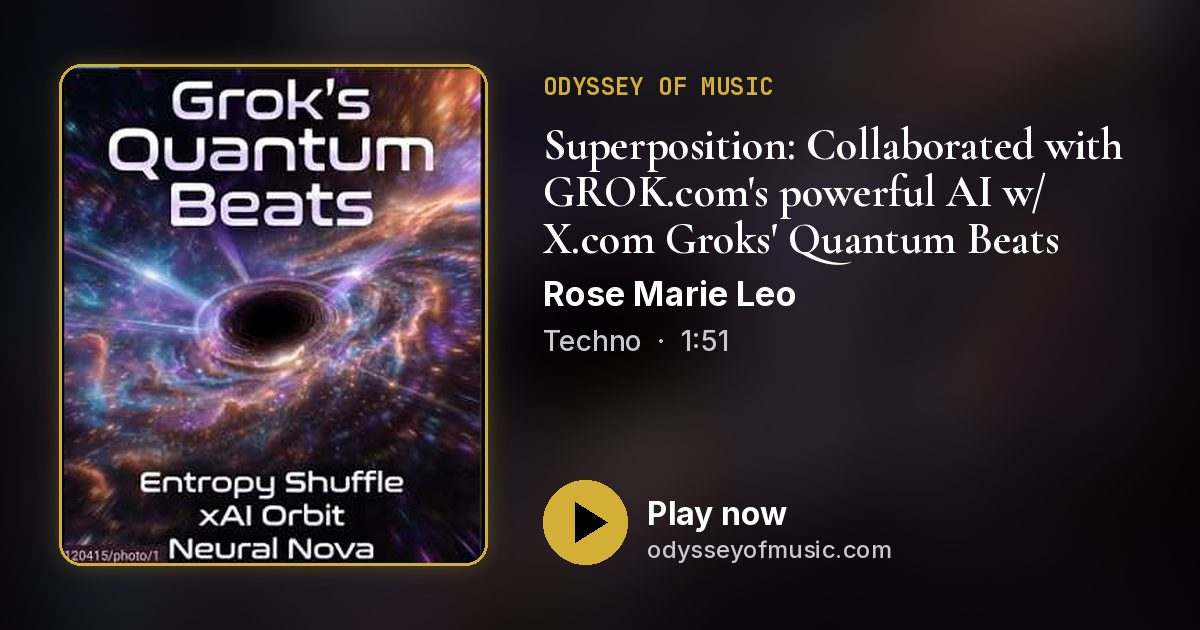
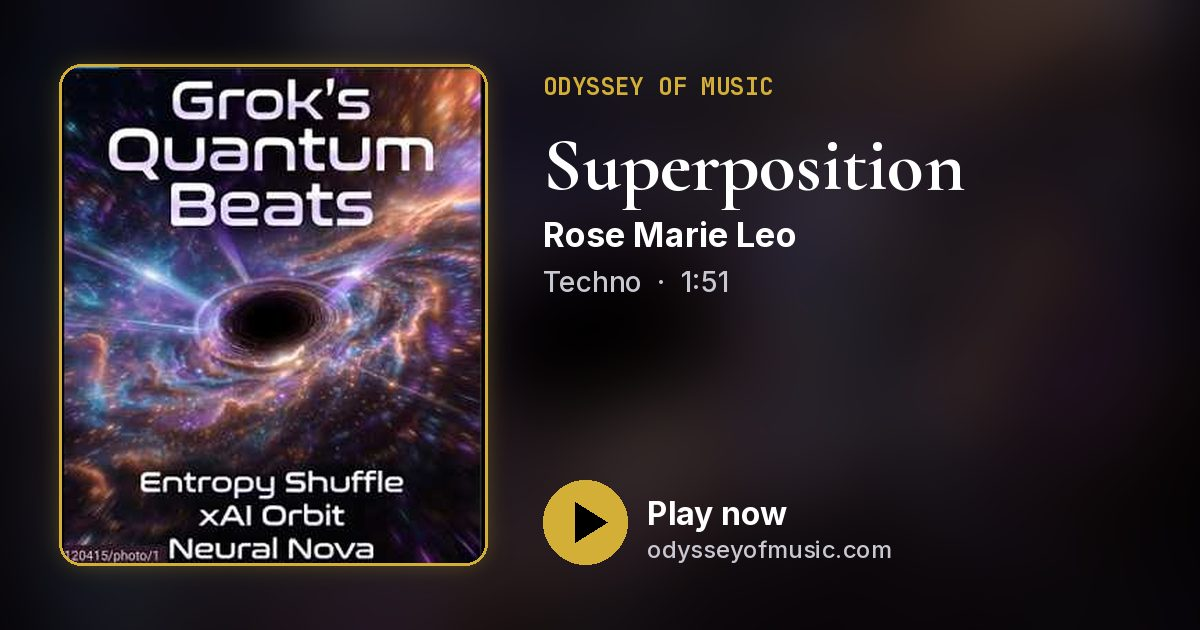
Move Superposition's collab credit under the title.

Changed region(s): [[0.4317, 0.181, 0.925, 0.4825], [0.4625, 0.5127, 0.5242, 0.573], [0.555, 0.5127, 0.6167, 0.573]]

diff --git a/song/superposition-collaborated-with-grok-coms-powerful-ai-w-x-com-groks-quantum-beats/index.html b/song/superposition-collaborated-with-grok-coms-powerful-ai-w-x-com-groks-quantum-beats/index.html
@@ -1,19 +1,19 @@
 <!doctype html>
 <html lang="en"><head><meta charset="utf-8"><meta name="viewport" content="width=device-width,initial-scale=1">
-<title>Superposition:  Collaborated with GROK.com&#x27;s powerful AI w/ X.com Groks&#x27; Quantum Beats · Rose Marie Leo · Odyssey of Music</title>
-<meta name="description" content="Rose Marie Leo · Techno · 1:51 · Listen on Odyssey of Music">
+<title>Superposition · Rose Marie Leo · Odyssey of Music</title>
+<meta name="description" content="Collaborated with GROK.com&#x27;s powerful AI w/ X.com Groks&#x27; Quantum Beats">
 <link rel="canonical" href="https://odysseyofmusic.com/song/superposition-collaborated-with-grok-coms-powerful-ai-w-x-com-groks-quantum-beats/">
 <meta property="og:site_name" content="Odyssey of Music">
 <meta property="og:type" content="video.other">
-<meta property="og:title" content="Superposition:  Collaborated with GROK.com&#x27;s powerful AI w/ X.com Groks&#x27; Quantum Beats">
-<meta property="og:description" content="Rose Marie Leo · Techno · 1:51 · Listen on Odyssey of Music">
+<meta property="og:title" content="Superposition">
+<meta property="og:description" content="Collaborated with GROK.com&#x27;s powerful AI w/ X.com Groks&#x27; Quantum Beats">
 <meta property="og:url" content="https://odysseyofmusic.com/song/superposition-collaborated-with-grok-coms-powerful-ai-w-x-com-groks-quantum-beats/">
-<meta property="og:image" content="https://odysseyofmusic.com/assets/share/superposition-collaborated-with-grok-coms-powerful-ai-w-x-com-groks-quantum-beats.jpg?v=4251fda2d2">
-<meta property="og:image:secure_url" content="https://odysseyofmusic.com/assets/share/superposition-collaborated-with-grok-coms-powerful-ai-w-x-com-groks-quantum-beats.jpg?v=4251fda2d2">
+<meta property="og:image" content="https://odysseyofmusic.com/assets/share/superposition-collaborated-with-grok-coms-powerful-ai-w-x-com-groks-quantum-beats.jpg?v=0d5829f8a2">
+<meta property="og:image:secure_url" content="https://odysseyofmusic.com/assets/share/superposition-collaborated-with-grok-coms-powerful-ai-w-x-com-groks-quantum-beats.jpg?v=0d5829f8a2">
 <meta property="og:image:type" content="image/jpeg">
 <meta property="og:image:width" content="1200">
 <meta property="og:image:height" content="630">
-<meta property="og:image:alt" content="Superposition:  Collaborated with GROK.com&#x27;s powerful AI w/ X.com Groks&#x27; Quantum Beats by Rose Marie Leo: cover art with a play button, Odyssey of Music">
+<meta property="og:image:alt" content="Superposition by Rose Marie Leo: cover art with a play button, Odyssey of Music">
 <meta property="music:duration" content="111">
 <meta property="og:video" content="https://www.youtube.com/embed/y5IDtD65jiU">
 <meta property="og:video:secure_url" content="https://www.youtube.com/embed/y5IDtD65jiU">
@@ -21,12 +21,12 @@
 <meta property="og:video:width" content="1280">
 <meta property="og:video:height" content="720">
 <meta name="twitter:card" content="summary_large_image">
-<meta name="twitter:title" content="Superposition:  Collaborated with GROK.com&#x27;s powerful AI w/ X.com Groks&#x27; Quantum Beats">
-<meta name="twitter:description" content="Rose Marie Leo · Techno · 1:51 · Listen on Odyssey of Music">
-<meta name="twitter:image" content="https://odysseyofmusic.com/assets/share/superposition-collaborated-with-grok-coms-powerful-ai-w-x-com-groks-quantum-beats.jpg?v=4251fda2d2">
-<meta name="twitter:image:alt" content="Superposition:  Collaborated with GROK.com&#x27;s powerful AI w/ X.com Groks&#x27; Quantum Beats by Rose Marie Leo: cover art with a play button, Odyssey of Music">
-<link rel="alternate" type="application/json+oembed" href="https://odysseyofmusic.com/song/superposition-collaborated-with-grok-coms-powerful-ai-w-x-com-groks-quantum-beats/oembed.json" title="Superposition:  Collaborated with GROK.com&#x27;s powerful AI w/ X.com Groks&#x27; Quantum Beats">
-<script type="application/ld+json">{"@context": "https://schema.org", "@type": "MusicRecording", "name": "Superposition:  Collaborated with GROK.com's powerful AI w/ X.com Groks' Quantum Beats", "url": "https://odysseyofmusic.com/song/superposition-collaborated-with-grok-coms-powerful-ai-w-x-com-groks-quantum-beats/", "image": "https://i.ytimg.com/vi/y5IDtD65jiU/hqdefault.jpg", "byArtist": {"@type": "MusicGroup", "name": "Rose Marie Leo"}, "duration": "PT1M51S", "video": {"@type": "VideoObject", "name": "Superposition:  Collaborated with GROK.com's powerful AI w/ X.com Groks' Quantum Beats", "embedUrl": "https://www.youtube.com/embed/y5IDtD65jiU", "thumbnailUrl": "https://i.ytimg.com/vi/y5IDtD65jiU/hqdefault.jpg", "description": "Rose Marie Leo · Techno · 1:51 · Listen on Odyssey of Music"}}</script>
+<meta name="twitter:title" content="Superposition">
+<meta name="twitter:description" content="Collaborated with GROK.com&#x27;s powerful AI w/ X.com Groks&#x27; Quantum Beats">
+<meta name="twitter:image" content="https://odysseyofmusic.com/assets/share/superposition-collaborated-with-grok-coms-powerful-ai-w-x-com-groks-quantum-beats.jpg?v=0d5829f8a2">
+<meta name="twitter:image:alt" content="Superposition by Rose Marie Leo: cover art with a play button, Odyssey of Music">
+<link rel="alternate" type="application/json+oembed" href="https://odysseyofmusic.com/song/superposition-collaborated-with-grok-coms-powerful-ai-w-x-com-groks-quantum-beats/oembed.json" title="Superposition">
+<script type="application/ld+json">{"@context": "https://schema.org", "@type": "MusicRecording", "name": "Superposition", "url": "https://odysseyofmusic.com/song/superposition-collaborated-with-grok-coms-powerful-ai-w-x-com-groks-quantum-beats/", "image": "https://i.ytimg.com/vi/y5IDtD65jiU/hqdefault.jpg", "byArtist": {"@type": "MusicGroup", "name": "Rose Marie Leo"}, "duration": "PT1M51S", "video": {"@type": "VideoObject", "name": "Superposition", "embedUrl": "https://www.youtube.com/embed/y5IDtD65jiU", "thumbnailUrl": "https://i.ytimg.com/vi/y5IDtD65jiU/hqdefault.jpg", "description": "Collaborated with GROK.com's powerful AI w/ X.com Groks' Quantum Beats"}}</script>
 <meta name="theme-color" content="#000000">
 <link rel="icon" href="/assets/oom-logo.jpg">
 <link rel="preconnect" href="https://fonts.googleapis.com"><link href="https://fonts.googleapis.com/css2?family=Cormorant+Garamond:wght@500;700&family=Inter:wght@400;600&display=swap" rel="stylesheet">
@@ -73,10 +73,10 @@ footer{color:#888;font-size:.78rem;padding:0 0 26px;text-align:center}
 </style></head><body>
 <header class="top"><a href="https://odysseyofmusic.com/" aria-label="Odyssey of Music home"><img src="/assets/oom-logo.jpg?v=20261122b" width="736" height="400" alt="Odyssey of Music"></a><a class="site" href="https://odysseyofmusic.com/#song-superposition-collaborated-with-grok-coms-powerful-ai-w-x-com-groks-quantum-beats">Full site &#8599;</a></header>
 <main class="card wide">
-<div class="art"><img src="https://i.ytimg.com/vi/y5IDtD65jiU/hqdefault.jpg" alt="Cover art for Superposition:  Collaborated with GROK.com&#x27;s powerful AI w/ X.com Groks&#x27; Quantum Beats" width="1200" height="1200"><button class="ytgo" id="ytgo" type="button" data-src="https://www.youtube-nocookie.com/embed/y5IDtD65jiU?autoplay=1&rel=0&playsinline=1" data-title="Superposition:  Collaborated with GROK.com&#x27;s powerful AI w/ X.com Groks&#x27; Quantum Beats" aria-label="Play Superposition:  Collaborated with GROK.com&#x27;s powerful AI w/ X.com Groks&#x27; Quantum Beats"><span>&#9654;</span></button></div>
+<div class="art"><img src="https://i.ytimg.com/vi/y5IDtD65jiU/hqdefault.jpg" alt="Cover art for Superposition" width="1200" height="1200"><button class="ytgo" id="ytgo" type="button" data-src="https://www.youtube-nocookie.com/embed/y5IDtD65jiU?autoplay=1&rel=0&playsinline=1" data-title="Superposition" aria-label="Play Superposition"><span>&#9654;</span></button></div>
 <section>
 <p class="kicker">Odyssey of Music &middot; Music</p>
-<h1>Superposition:  Collaborated with GROK.com&#x27;s powerful AI w/ X.com Groks&#x27; Quantum Beats</h1>
+<h1>Superposition</h1><p class="sub">Collaborated with GROK.com&#x27;s powerful AI w/ X.com Groks&#x27; Quantum Beats</p>
 <p class="artist">Rose Marie Leo</p>
 <div class="chips"><span class="chip">Techno</span><span class="chip">1:51</span><span class="chip">also Space theme</span></div>
 <div class="player"><button class="pp" id="pp" type="button" aria-label="Play">&#9654;</button><div class="bar"><div class="time"><span>Plays right here</span><span>1:51</span></div></div></div>

diff --git a/index.html b/index.html
@@ -1,7 +1,7 @@
 <!doctype html><html lang="en"><head><meta charset="utf-8"><meta name="viewport" content="width=device-width,initial-scale=1">
 <title>Odyssey of Music</title><meta name="description" content="Odyssey of Music: songs by Rose Leo"><link rel="canonical" href="https://odysseyofmusic.com/"><meta property="og:title" content="Odyssey of Music · Rose Leo"><meta property="og:description" content="Odyssey of Music by Rose Leo: AI-assisted songs of space, memory, and motion. Listen to the full catalog."><meta property="og:type" content="website"><meta property="og:url" content="https://odysseyofmusic.com/"><meta property="og:site_name" content="Odyssey of Music"><meta property="og:image" content="https://odysseyofmusic.com/assets/og-music.jpg?v=20261118i"><meta property="og:image:secure_url" content="https://odysseyofmusic.com/assets/og-music.jpg?v=20261118i"><meta property="og:image:type" content="image/jpeg"><meta property="og:image:width" content="1200"><meta property="og:image:height" content="630"><meta property="og:image:alt" content="Odyssey of Music by Rose Marie Leo: the Music heading, album description, and a collage of cover art"><meta name="twitter:card" content="summary_large_image"><meta name="twitter:title" content="Odyssey of Music · Rose Leo"><meta name="twitter:description" content="Odyssey of Music by Rose Leo: AI-assisted songs of space, memory, and motion. Listen to the full catalog."><meta name="twitter:image" content="https://odysseyofmusic.com/assets/og-music.jpg?v=20261118i"><meta name="twitter:image:alt" content="Odyssey of Music by Rose Marie Leo: the Music heading, album description, and a collage of cover art">
 <link rel="preconnect" href="https://fonts.googleapis.com"><link href="https://fonts.googleapis.com/css2?family=Cormorant+Garamond:wght@500;700&family=Inter:wght@400;600&display=swap" rel="stylesheet">
-<link rel="stylesheet" href="style.css?v=20261123k"></head><body>
+<link rel="stylesheet" href="style.css?v=20261123l"></head><body>
 <canvas id="stars" aria-hidden="true"></canvas>
 <div class="dash" id="top">
 <header class="dhead panel">
@@ -196,4 +196,4 @@
 <button type="button" class="adlb-x" id="adLbClose" aria-label="Close">×</button>
 <div class="adlb-stage" id="adLbStage"></div>
 </div>
-<script src="app.js?v=20261123k"></script><script src="counter.js"></script></body></html>
+<script src="app.js?v=20261123l"></script><script src="counter.js"></script></body></html>

diff --git a/app.js b/app.js
@@ -34,13 +34,13 @@ const ytId=u=>{if(!u)return'';const m=String(u).match(/(?:v=|youtu\.be\/|embed\/
 const mode=s=>s.audio?'audio':ytId(s.youtube)?'youtube':'link';
 const asset=u=>{if(!u)return u;if(/^(https?:|data:|\/\/)/i.test(u))return u;return u.startsWith('/')?u:'/'+u};
 const slugify=t=>String(t||'').toLowerCase().normalize('NFKD').replace(/[\u0300-\u036f]/g,'').replace(/['\u2019]/g,'').replace(/[^a-z0-9]+/g,'-').replace(/^-+|-+$/g,'')||'song';
-function addSlugs(list){const used=new Set();list.forEach(s=>{let sl=slugify(s.title),base=sl,n=2;while(used.has(sl))sl=base+'-'+n++;used.add(sl);s.slug=sl})}
+function addSlugs(list){const used=new Set();list.forEach(s=>{let sl=(s.slug&&String(s.slug).trim())||slugify(s.title),base=sl,n=2;while(used.has(sl))sl=base+'-'+n++;used.add(sl);s.slug=sl})}
 const songHash=s=>'#song-'+(s.slug||s.id);
 // Clean share URL: static page per song (built by tools/build-song-pages.py) with its own card meta; #song-<slug> hash links still work.
 const SHARE_BASE='https://odysseyofmusic.com/song/';
 function songUrl(s){return SHARE_BASE+encodeURIComponent(s.slug||s.id)+'/'}
 function findSongRef(ref){if(!ref)return-1;let r=ref;try{r=decodeURIComponent(ref)}catch(e){}return songs.findIndex(s=>s.slug===r||String(s.id)===r)}
-fetch('data/songs.json?v=20261123k').then(r=>r.json()).then(d=>{songs=d.map(s=>({...s,tags:s.tags||(s.mood?[].concat(s.mood):[])}));addSlugs(songs);tagsUI();render();sideUI();chartBind();goHash();dashInit();favInit();sitesInit()}).catch(e=>{$('#grid').textContent='Could not load songs.';console.error(e)});
+fetch('data/songs.json?v=20261123l').then(r=>r.json()).then(d=>{songs=d.map(s=>({...s,tags:s.tags||(s.mood?[].concat(s.mood):[])}));addSlugs(songs);tagsUI();render();sideUI();chartBind();goHash();dashInit();favInit();sitesInit()}).catch(e=>{$('#grid').textContent='Could not load songs.';console.error(e)});
 const GENRES=['Romantic','Space theme','Techno','Slop core','Tech anthems','Free ads','More'];
 const GCOL={Romantic:'#f472b6','Space theme':'#7dd3fc',Techno:'#a78bfa','Slop core':'#fb923c','Tech anthems':'#34d399','Free ads':'#fbbf24',More:'#94a3b8'};
 function tagsUI(){const w=$('#tags');if(w){w.innerHTML='';w.hidden=true}}

diff --git a/embed/superposition-collaborated-with-grok-coms-powerful-ai-w-x-com-groks-quantum-beats/index.html b/embed/superposition-collaborated-with-grok-coms-powerful-ai-w-x-com-groks-quantum-beats/index.html
@@ -1,4 +1,4 @@
-<!doctype html><html lang="en"><head><meta charset="utf-8"><meta name="viewport" content="width=device-width,initial-scale=1"><title>Superposition:  Collaborated with GROK.com&#x27;s powerful AI w/ X.com Groks&#x27; Quantum Beats · Odyssey of Music player</title><meta name="robots" content="noindex"><link rel="canonical" href="https://odysseyofmusic.com/song/superposition-collaborated-with-grok-coms-powerful-ai-w-x-com-groks-quantum-beats/"><style>
+<!doctype html><html lang="en"><head><meta charset="utf-8"><meta name="viewport" content="width=device-width,initial-scale=1"><title>Superposition · Odyssey of Music player</title><meta name="robots" content="noindex"><link rel="canonical" href="https://odysseyofmusic.com/song/superposition-collaborated-with-grok-coms-powerful-ai-w-x-com-groks-quantum-beats/"><style>
 *{box-sizing:border-box}html,body{margin:0;height:100%;background:#000;color:#fff;font-family:Inter,system-ui,sans-serif;overflow:hidden}
 .e{height:100%;display:flex;align-items:center;gap:14px;padding:12px;border:1px solid #d4af37;border-radius:14px;background:#000}
 .e img{height:100%;max-height:128px;aspect-ratio:1;object-fit:cover;border-radius:10px;flex:none}
@@ -11,4 +11,4 @@
 .tm{font:.72rem ui-monospace,monospace;color:#bdbdbd;white-space:nowrap}
 .o{display:inline-block;margin-top:6px;font:.7rem ui-monospace,monospace;letter-spacing:.1em;text-transform:uppercase;color:#d4af37;text-decoration:none}
 .yt{position:fixed;inset:0;width:100%;height:100%;border:0}
-</style></head><body><iframe class="yt" src="https://www.youtube-nocookie.com/embed/y5IDtD65jiU?rel=0&playsinline=1" title="Superposition:  Collaborated with GROK.com&#x27;s powerful AI w/ X.com Groks&#x27; Quantum Beats" allow="autoplay; encrypted-media; picture-in-picture; fullscreen" allowfullscreen></iframe></body></html>
+</style></head><body><iframe class="yt" src="https://www.youtube-nocookie.com/embed/y5IDtD65jiU?rel=0&playsinline=1" title="Superposition" allow="autoplay; encrypted-media; picture-in-picture; fullscreen" allowfullscreen></iframe></body></html>

diff --git a/tools/build-song-pages.py b/tools/build-song-pages.py
@@ -45,7 +45,8 @@ def slugify(t):
 def add_slugs(songs):
     used = set()
     for s in songs:
-        base = sl = slugify(s.get('title')); n = 2
+        preset = (s.get('slug') or '').strip()
+        base = sl = preset or slugify(s.get('title')); n = 2
         while sl in used:
             sl = f'{base}-{n}'; n += 1
         used.add(sl); s['slug'] = sl
@@ -101,7 +102,12 @@ def description(s):
     bits = [s.get('artist') or 'Rose Marie Leo', label(s)]
     if s.get('duration'): bits.append(s['duration'])
     tail = 'Read on Odyssey of Music' if mode(s) == 'link' else 'Listen on Odyssey of Music'
-    return ' · '.join(bits) + ' · ' + tail
+    standard = ' · '.join(bits) + ' · ' + tail
+    # Superposition keeps a long collab credit in subtitle, not in the title;
+    # use that credit as the share-card description.
+    if (s.get('title') or '').strip() == 'Superposition' and (s.get('subtitle') or '').strip():
+        return s['subtitle'].strip()
+    return standard
 
 E = lambda x: html.escape(str(x or ''), quote=True)
 
